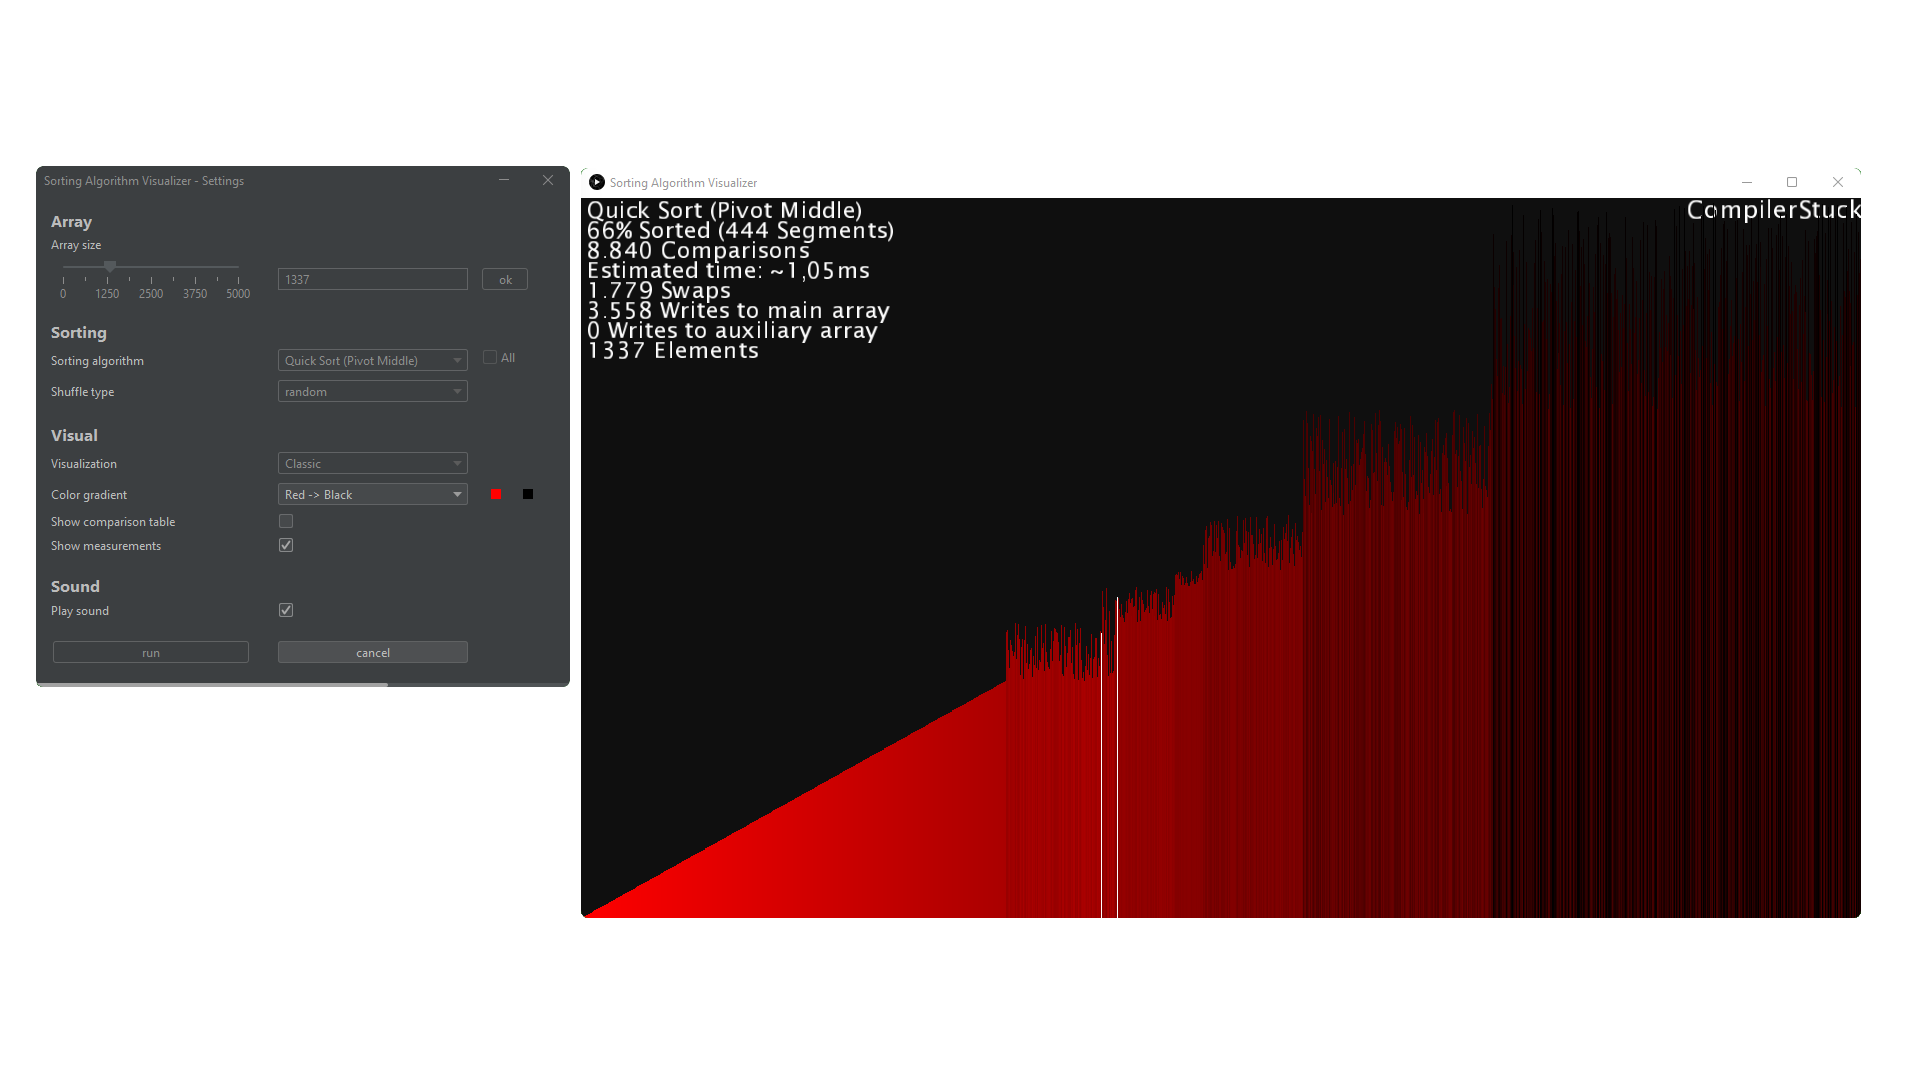
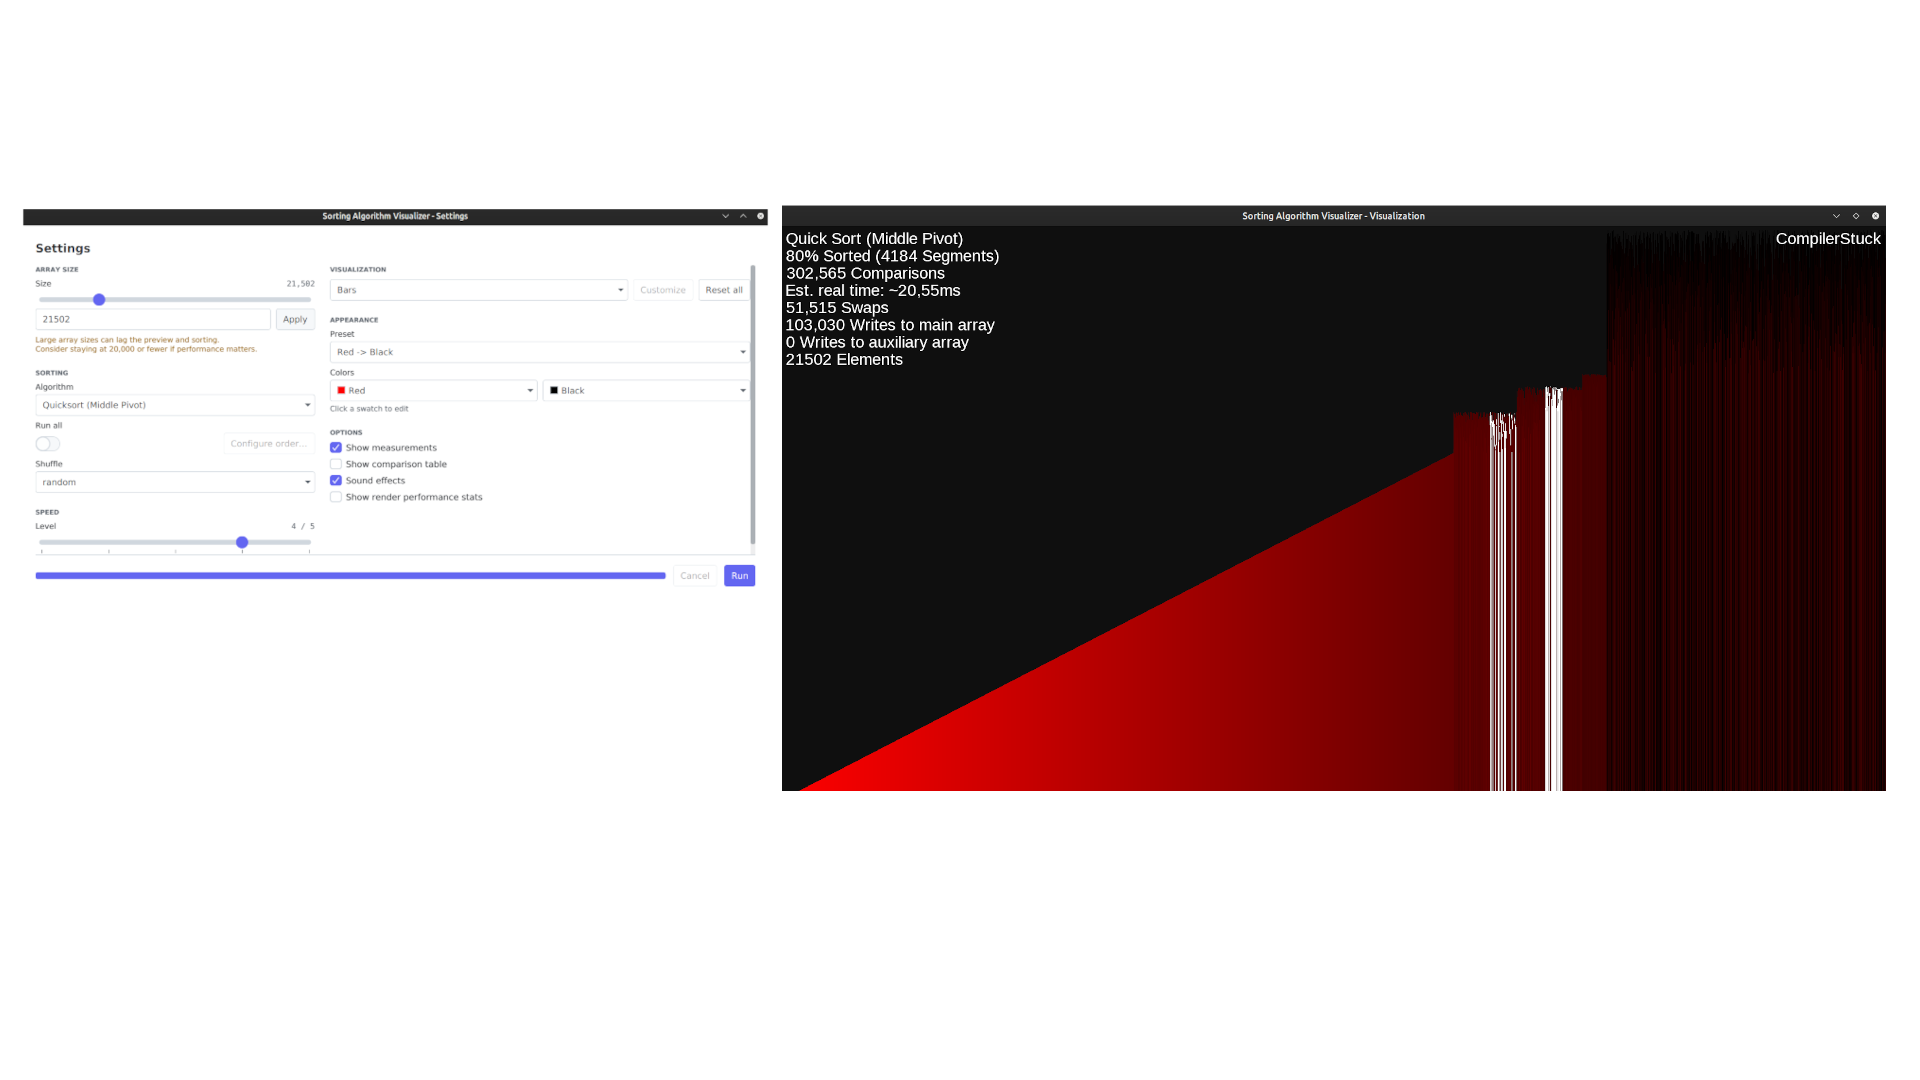
Update README.md

diff --git a/README.md b/README.md
@@ -4,7 +4,7 @@
 
 # Sorting Algorithm Visualizer
 
-See and hear sorting algorithms in real time - 22 algorithms, 30 visualizations on **libGDX**, live metrics, and MIDI audio.
+See and hear sorting algorithms in real time — 22 algorithms, 30 visualizations, live metrics, and MIDI audio.
 
 [![CI](https://github.com/66-m/sorting-visualizer/actions/workflows/ci.yml/badge.svg)](https://github.com/66-m/sorting-visualizer/actions/workflows/ci.yml)
 [![License: AGPL v3](https://img.shields.io/badge/License-AGPL_v3-blue.svg)](https://www.gnu.org/licenses/agpl-3.0)
@@ -20,7 +20,7 @@ See and hear sorting algorithms in real time - 22 algorithms, 30 visualizations 
 
 Requires **[JDK 26+](https://jdk.java.net/26/)**.
 
-Download [`sorting-visualizer.jar`](https://github.com/66-m/sorting-visualizer/releases/latest/download/sorting-visualizer.jar) from the latest release, then:
+Download [`sorting-visualizer.jar`](https://github.com/66-m/sorting-visualizer/releases/latest/download/sorting-visualizer.jar), then:
 
 ```sh
 java --enable-native-access=ALL-UNNAMED \
@@ -28,71 +28,25 @@ java --enable-native-access=ALL-UNNAMED \
   -jar sorting-visualizer.jar
 ```
 
-**Settings** is a JavaFX window (AtlantaFX). The visualization canvas is **libGDX** (`GdxRenderSystem`: batched World2D + instanced World3D). Closing **Settings** quits the app. On the canvas, **Esc** cancels a run or focuses Settings; **Ctrl+Q** quits.
-### Launch flags
-
-Pass any of these after the JAR name (order does not matter; `fullscreen` wins over `portrait`):
+Optional flags (after the JAR name; `fullscreen` wins over `portrait`):
 
 | Flag | Effect |
 |------|--------|
-| `fullscreen` | Fullscreen visualization on the chosen display |
-| `portrait` | Tall portrait window (~9:16) |
-| `--display=N` | Visualization on display `N` (1-based; default is display 2 when multiple monitors exist, otherwise the primary). Settings always opens centered on the primary screen. |
-
-```sh
-java --enable-native-access=ALL-UNNAMED \
-  --add-opens=java.desktop/com.sun.media.sound=ALL-UNNAMED \
-  -jar sorting-visualizer.jar fullscreen --display=2
-```
+| `fullscreen` | Fullscreen visualization |
+| `portrait` | Tall ~9:16 window |
+| `--display=N` | Visualization on display `N` (1-based; default is 2 when multiple monitors exist) |
 
 ## Features
 
-### Algorithms (22)
-
-| | | |
-|---|---|---|
-| Quick Sort (middle / dual pivot) | Merge Sort | Heap Sort |
-| Shell Sort | Tim Sort | Insertion Sort |
-| Selection / Double Selection | Bubble / Cocktail Shaker | Comb Sort |
-| Gnome / Odd-Even / Cycle | Counting / Bucket / Pigeonhole | Radix LSD (base 10) |
-| American Flag Sort | Gravity Sort | Bogo Sort |
-
-Run one algorithm, or run a custom selection **in order** and optionally show a comparison table afterward.
-
-### Visualizations (30)
-
-| | | |
-|---|---|---|
-| Bars | Scatter Plot | Scatter Plot Linked |
-| Number Plot | Disparity Graph | Disparity Graph Mirrored |
-| Horizontal Pyramid | Color Gradient Graph | Circle |
-| Disparity Circle | Disparity Circle Scatter | Disparity Circle Scatter Linked |
-| Disparity Chords | Disparity Square Scatter | Swirl Dots |
-| Phyllotaxis | Image Vertical | Image Horizontal |
-| Hoops | Mosaic Squares | Morphing Shell (3D) |
-| Sphere (3D) | Sphere Hoops (3D) | Spheric Disparity Lines (3D) |
-| Disparity Sphere Hoops (3D) | Cube (3D) | Cubic Lines (3D) |
-| Pyramid (3D) | Plane (3D) | Disparity Plane (3D) |
-
-### Controls
-
-| Control | Options |
-|---------|---------|
-| Array | Size 3–100 000; shuffle: random, reverse, almost sorted, sorted |
-| Sorting | Algorithm picker, run-all with drag-reorder dialog, shuffle type |
-| Speed | Five levels (steps per frame) |
-| Appearance | Gradient presets + custom colors |
-| Visualization | 30 modes; Customize for most modes (Bars / disparity graphs / Horizontal Pyramid have none); image path with validation for image viz |
-| Sound | MIDI tones mapped to values; sound-effects checkbox |
-| Display | Show measurements (sorted %, comparisons, swaps, main/aux writes, est. time); comparison table after run-all; export CSV |
-| Session | Cancel mid-run; prefs persist across launches |
+- Classic and niche sorts (Quick, Merge, Heap, Radix, Bogo, …), singly or run-all with a comparison table
+- 2D and 3D visualizations, custom colors, optional MIDI sound
+- Array sizes up to 100 000; live metrics and CSV export
 
 ## Build from source
 
 ```sh
 git clone https://github.com/66-m/sorting-visualizer.git
 cd sorting-visualizer
-
 ./mvnw clean package
 ./run
 ```
@@ -100,12 +54,10 @@ cd sorting-visualizer
 | Command | What it does |
 |---------|----------------|
 | `./build` | Package with tests |
-| `./build skip-tests` | Fast package (skips tests) |
-| `./run` | Launch the local build |
+| `./build skip-tests` | Fast package |
+| `./run` | Launch (same flags as above) |
 
-`./run` accepts the same [launch flags](#launch-flags) as the JAR. On Windows, use `build.cmd`, `run.cmd`, or `mvnw.cmd`.
-
-For release fat JARs, SBOM, and `jpackage` builds, see [Contributing](CONTRIBUTING.md#packaging).
+On Windows: `build.cmd`, `run.cmd`, or `mvnw.cmd`. Release packaging: [Contributing](CONTRIBUTING.md#packaging).
 
 ## Docs
 
